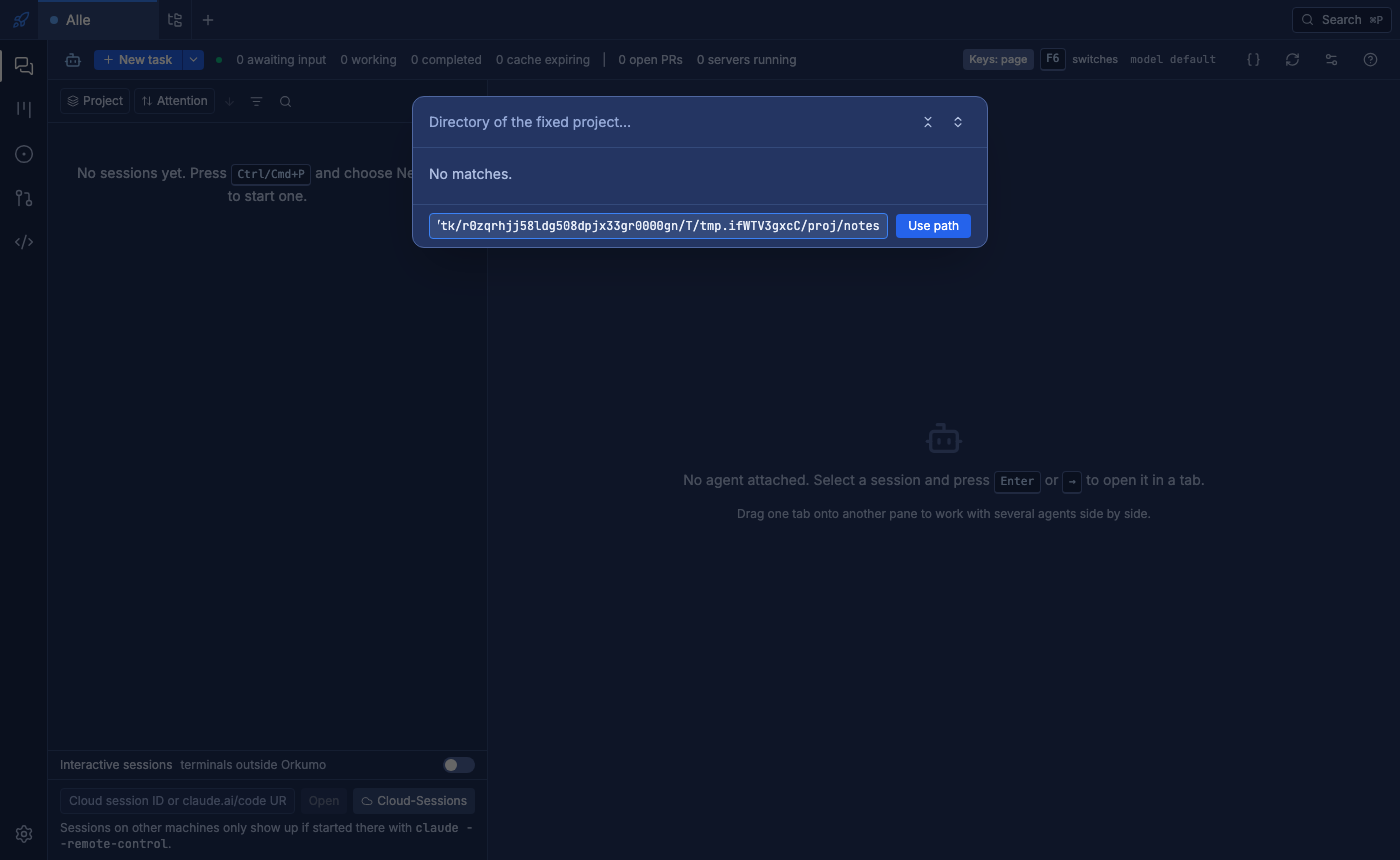
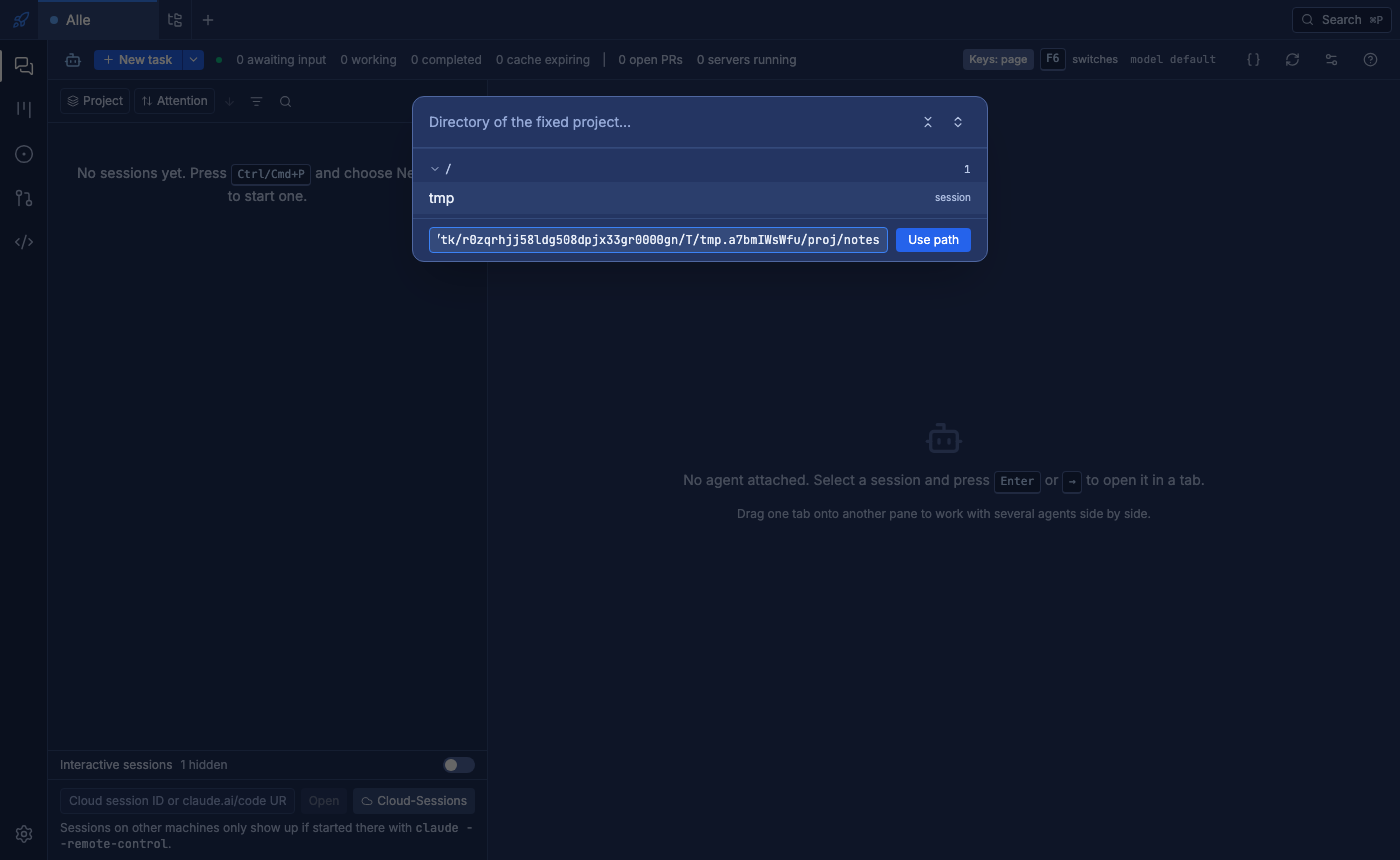
fix(agents): fixed projects also show while the rail hides sessions (#253)
Gated on the filter flag instead of comparing session counts: hidden interactive
sessions or a project context made the counts differ and hid every fixed project.

Claude-Session: https://claude.ai/code/session_01D4z4TAVYLPCtubxnd3gye6

Changed region(s): [[0.2764, 0.1814, 0.7064, 0.3023], [0.1229, 0.8767, 0.215, 0.907]]

diff --git a/components/AgentsView/AgentsView.tsx b/components/AgentsView/AgentsView.tsx
@@ -496,12 +496,12 @@ export const AgentsView: React.FC<AgentsViewProps> = ({
           lookup,
           apps,
           // A filter asks for agents: empty fixed projects would only be in the way
-          fixedProjects: shownSessions.length === sessions.length ? rail.fixedProjects : [],
+          fixedProjects: filterActive ? [] : rail.fixedProjects,
         })
       ),
     [
       shownSessions,
-      sessions.length,
+      filterActive,
       settings.grouping,
       expandedCompleted,
       quickFilters,
